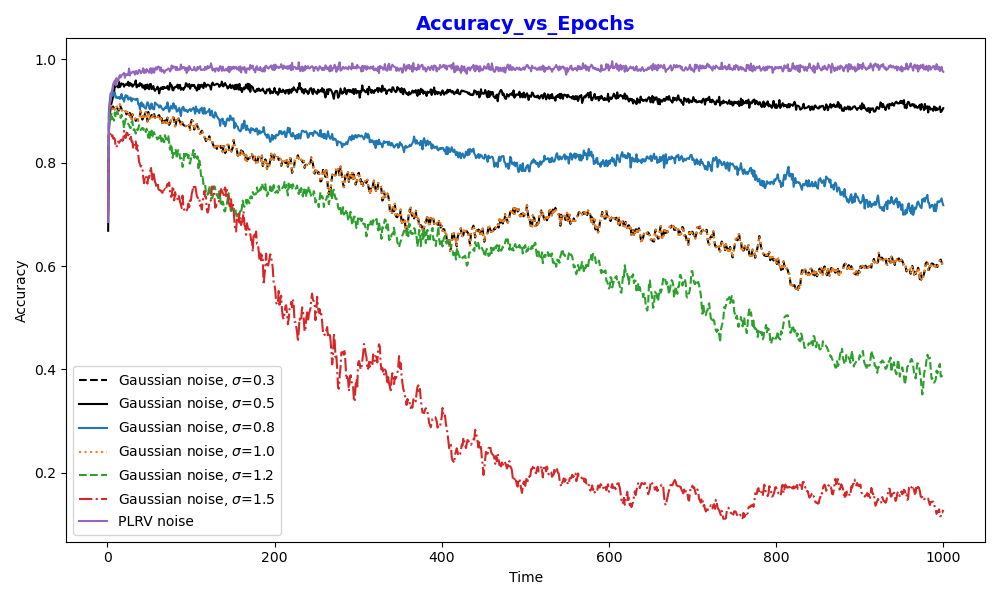
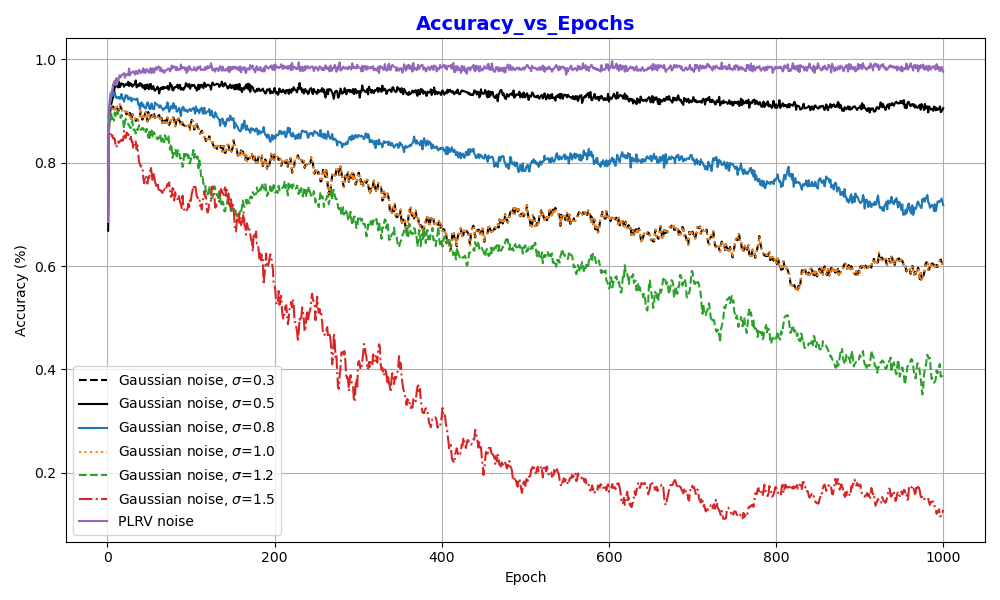
update

Changed region(s): [[0.0, 0.42, 0.031, 0.57], [0.496, 0.96, 0.558, 0.99]]

diff --git a/examples/my_example/result_june_7/plotter.py b/examples/my_example/result_june_7/plotter.py
@@ -82,8 +82,9 @@ def plot_accuracy(data, legends, line_styles, is_inset=True, title="Accuracy_vs_
         val_values=val.values()
         plt.plot(val_key, val_values, line_styles[key], label=legends[key])
 
-    plt.xlabel("Time")
-    plt.ylabel("Accuracy")
+    plt.xlabel("Epoch")
+    plt.ylabel("Accuracy (%)")
+    plt.grid(True)
     plt.title(title, fontsize=14, color='blue', fontweight='bold')
     plt.legend()
     plt.tight_layout()
@@ -132,7 +133,7 @@ def plot_epsilon(data, legends, line_styles, is_inset=True, title="Epsilon_vs_Ep
             plt.plot(val_key, val_values, line_styles[key], label=legends[key])
 
         plt.xlabel("Time")
-        plt.ylabel("Epsilon")
+        plt.ylabel('$\\epsilon$')
         plt.title(title, fontsize=14, color='blue', fontweight='bold')
         plt.legend()
         plt.tight_layout()
@@ -145,7 +146,7 @@ def plot_epsilon(data, legends, line_styles, is_inset=True, title="Epsilon_vs_Ep
 
         ax.set_title(title)
         ax.set_xlabel('Epoch')
-        ax.set_ylabel('Epsilon')
+        ax.set_ylabel('$\\epsilon$')
         ax.legend()
 
         # Create an inset within the main plot for the zoomed-in view
@@ -166,6 +167,7 @@ def plot_epsilon(data, legends, line_styles, is_inset=True, title="Epsilon_vs_Ep
         ax_inset.set_ylim(np.min(val_values[:70]),15)
     
     file_name=f"{title}.png"
+    plt.grid(True)
     plt.savefig(file_name)
     plt.show()
     plt.close()
@@ -193,11 +195,14 @@ def plot_epsilon_given_budget(data, budgets, legends, line_styles, title="Epsilo
             ax.legend(loc='best')
             subplot_title=f"Privacy budget={budget}"
             ax.title.set_text(subplot_title)
+            ax.set_xlabel('Epoch')
+            ax.set_ylabel('$\\epsilon$')
 
     file_name=f"{title}.png"
     plt.tight_layout()
     plt.savefig(file_name)
     plt.show()
+    # plt.close()
     
 
 def plot_accuracy_vs_epsilon(epsilon, accuracy, budgets, legends, line_styles, noise, title):
@@ -230,6 +235,8 @@ def plot_accuracy_vs_epsilon(epsilon, accuracy, budgets, legends, line_styles, n
             ax.legend(loc='best')
             subplot_title=f"Privacy budget={budget}"
             ax.title.set_text(subplot_title)
+            ax.set_ylabel('Accuracy (%)')
+            ax.set_xlabel('$\\epsilon$')
         
         index = index+1 
 
